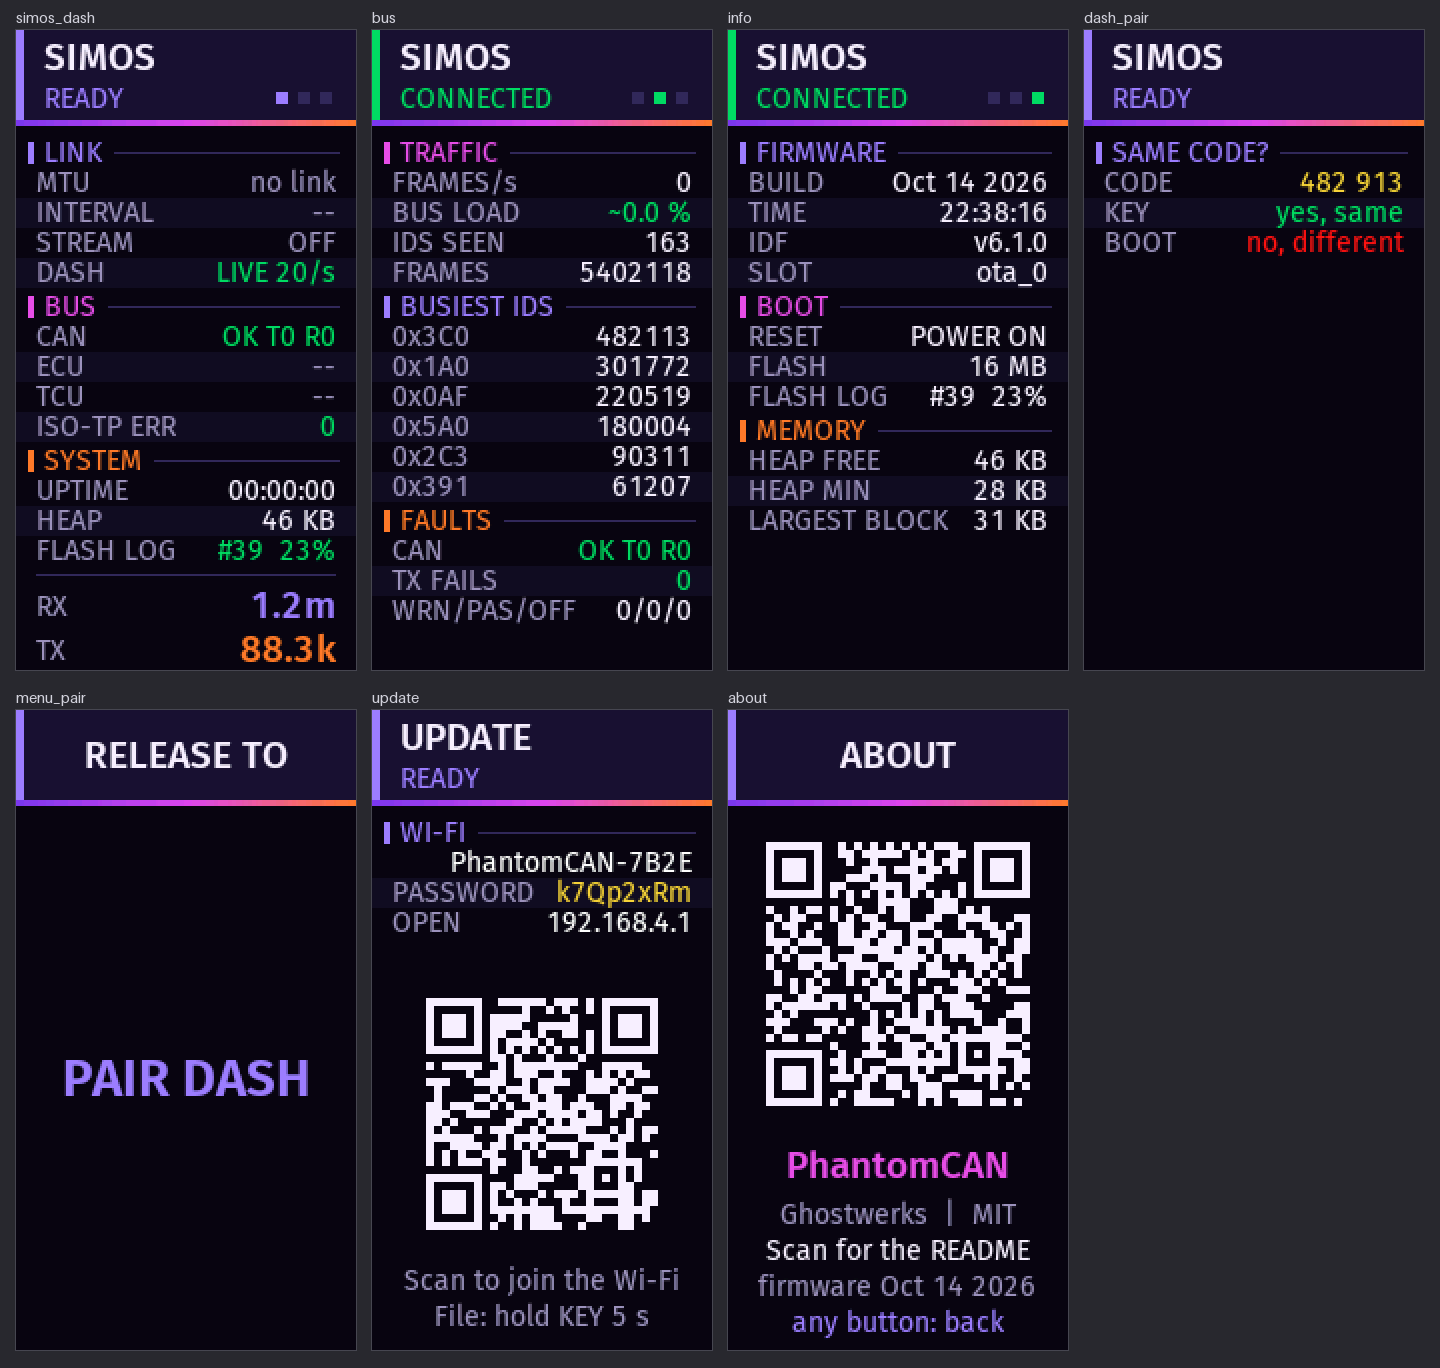
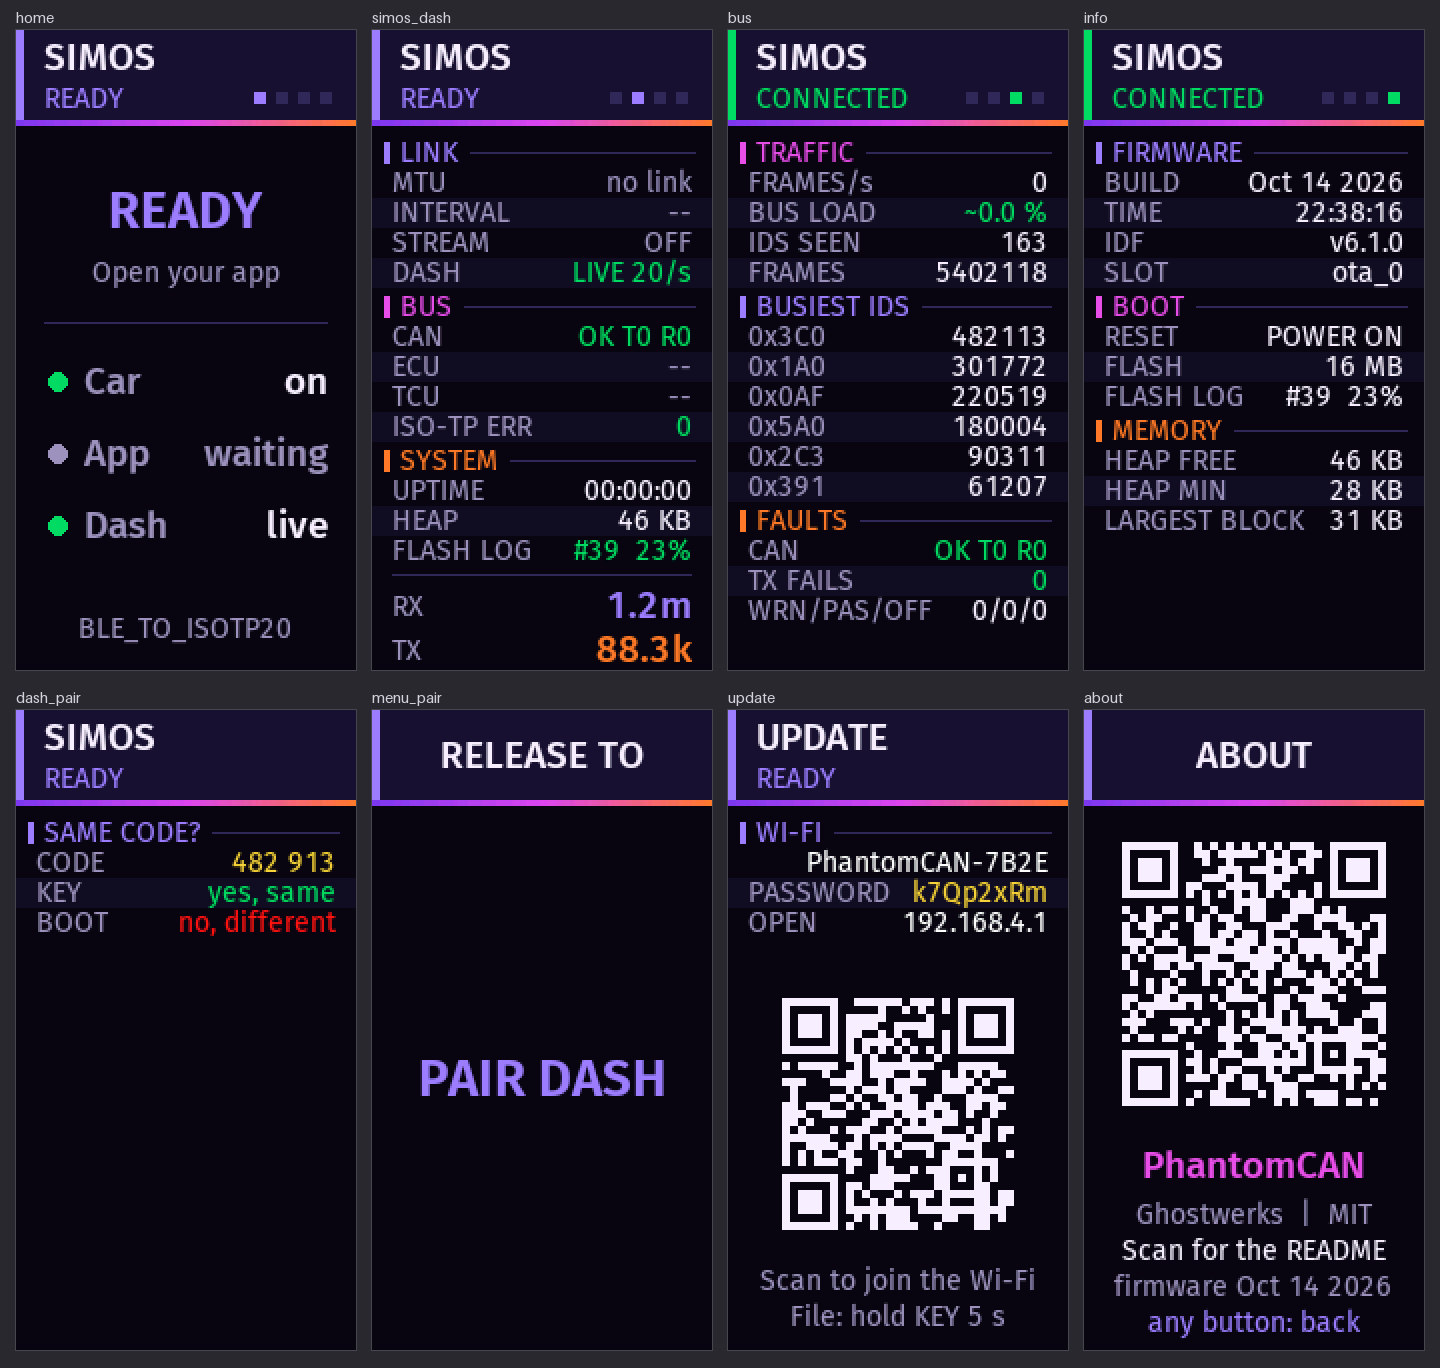
README: the home screen and the detailed pages behind a BOOT tap; screen picture updated

diff --git a/README.md b/README.md
@@ -24,7 +24,9 @@ screen, and connects to your phone over Bluetooth.
 
 ## What the screen shows
 
-![The dongle's screens: Simos mode with the dash row, bus traffic, firmware and memory, pairing the dash, the Pair dash prompt, Wi-Fi update and About](img/screens.png)
+The dongle starts on its **home screen**: one word for what it is doing (**READY**, **CONNECTED**, **LOGGING** or **LOCKED**), a line saying what to do next, and whether the car, your app and the PhantomDASH are there. Tap **BOOT** for the detailed pages (status, bus monitor, firmware and memory), and once more to come back.
+
+![The dongle's screens: the home screen, the status page with the dash row, bus traffic, firmware and memory, pairing the dash, the Pair dash prompt, Wi-Fi update and About](img/screens.png)
 
 ## What you need
 
@@ -48,7 +50,7 @@ Do not connect the dongle to a computer over USB while it is plugged into a car.
 
 **The two buttons** are **BOOT** and **KEY**. BOOT opens the menu (pair the dash, demo mode, Wi-Fi update) and pages the screen; KEY reopens Bluetooth (2 seconds) and shows the About screen (5 seconds).
 
-**Reading the status screen** (the first page; tap BOOT for the others):
+**Reading the status page** (tap BOOT once from the home screen):
 
 | Row | What it means |
 |---|---|
@@ -68,7 +70,7 @@ release when you see what you want. The times below are only a guide.
 
 | Hold BOOT for | The screen offers | What happens |
 |---|---|---|
-| a quick tap | next page | cycles the status, bus monitor and firmware info pages |
+| a quick tap | next page | cycles the home screen and the status, bus monitor and firmware info pages |
 | about 3.5 to 6.5 seconds | **Pair dash** | opens a pairing window for the PhantomDASH, no restart (see [The PhantomDASH](#the-phantomdash)) |
 | about 6.5 to 8 seconds (about 7 is safe) | **Bench sim** | demo mode, no car needed (see below) |
 | about 8 to 9.5 seconds | **Wi-Fi update** | firmware update mode |
@@ -109,7 +111,7 @@ Compatibility notes:
 For the PhantomDASH digital dash, a separate product that is still in development. There is no separate mode for it: Simos mode serves the dash whenever no phone app is connected. The dongle only reads: it asks the car for the values the dash wants and sends the raw answers over an encrypted ESP-NOW radio link.
 
 * **Pairing, once:** disconnect any phone app, hold **BOOT** until the screen says **PAIR DASH** (about 4 seconds) and let go. Then start pairing on the dash's phone page. Both show the same six-digit code: if they match, confirm on the phone and press **KEY** on the dongle; if not, tap **BOOT**. There is nothing to type, and the keys are kept for next time. With no dash paired, the dongle does not start its radio link at all.
-* **Every day:** the dash shows live values as soon as the car is awake. The **DASH** row on the dongle's first page says **LIVE** with the number of reads a second while it is serving the dash.
+* **Every day:** the dash shows live values as soon as the car is awake. The home screen's **Dash** line says **live** (and the **DASH** row on the status page **LIVE**, with the number of reads a second) while it is serving the dash.
 * **When you connect Simos.app:** the dongle hands the car to the app at once. It switches its dash radio off completely (the app gets the dongle's full memory and attention), and the dash shows **APP CONNECTED**. About 2 seconds after the app disconnects the dash link comes back by itself.
 * **Lists:** the dongle carries no value lists. The names, scalings and gauges live on the dash; the dongle only asks the car for the identifiers the dash subscribes to and passes the raw answers back. Mode 22 lists and HSL lists (the engine computer's high-speed logging, which needs a tune with the HSL patch) both work.
 
